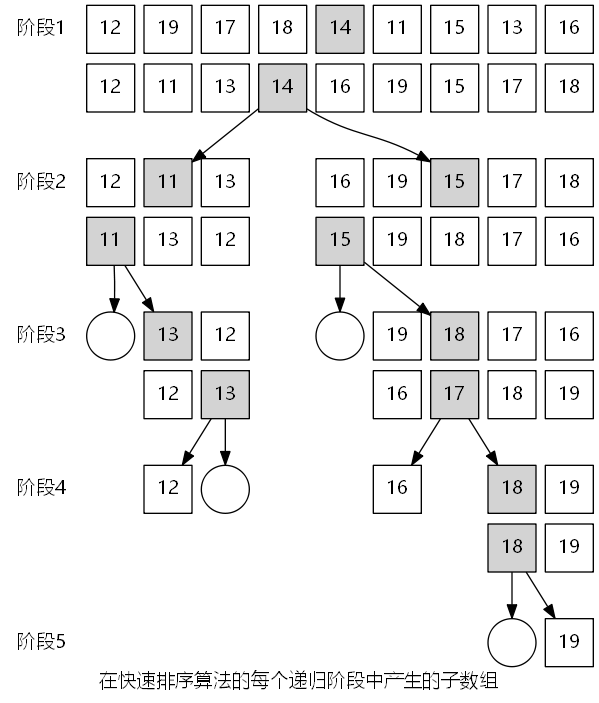
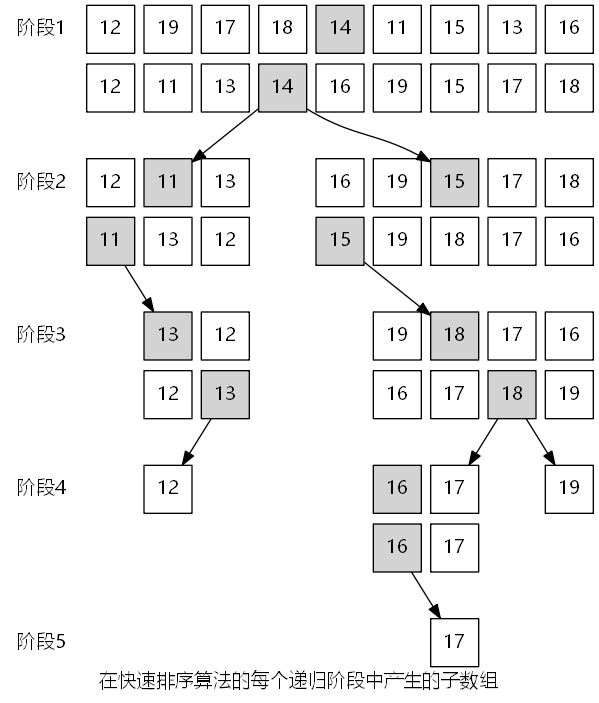
Add sample for quick sort algorithm.

diff --git a/graphviz/graphviz-sampels-for-algorithm.md b/graphviz/graphviz-sampels-for-algorithm.md
@@ -4,6 +4,10 @@
 
 ### 快速排序
 
+![划分过程期间各个阶段的子数组状态](samples/sort/subarray-states-of-each-stage-during-the-division-of-the-process.png)
+
+[源代码](samples/sort/subarray-states-of-each-stage-during-the-division-of-the-process.txt)
+
 ![在快速排序算法的每个递归阶段中产生的子数组](samples/sort/subarray-generated-in-quick-sorting.png)
 
 [源代码](samples/sort/subarray-generated-in-quick-sorting.txt)
